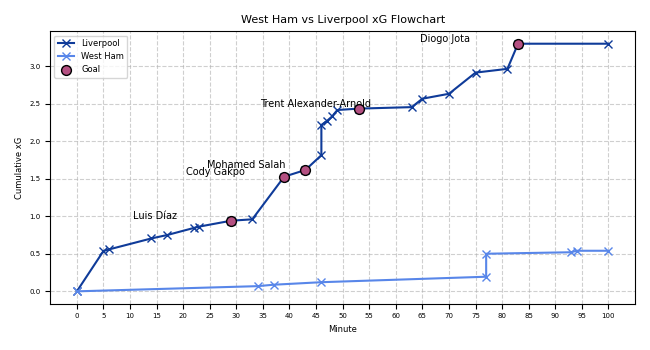
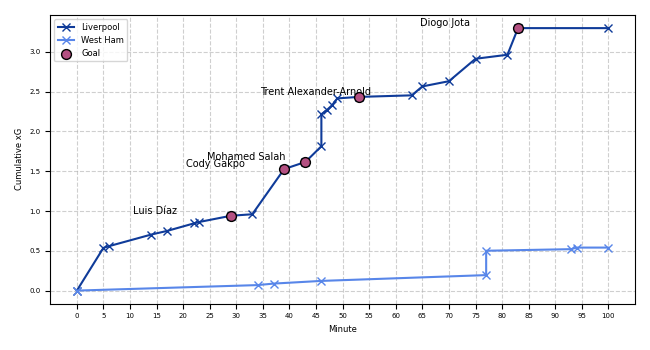
Created .env and .gitignore

diff --git a/montecarlo/post_game_viz_ai.py b/montecarlo/post_game_viz_ai.py
@@ -287,7 +287,7 @@ for _, row in goal_shots.iterrows():
     ax.text(row['minute'] - 18.5, row['cumulative_xG'], row['player'], fontsize=7, color='black', va='bottom', ha='left')
 
 # Adding titles and labels
-ax.set_title(f'{home_team} vs {away_team} xG Flowchart', fontsize=8)
+#ax.set_title(f'{home_team} vs {away_team} xG Flowchart', fontsize=8)
 ax.set_xlabel('Minute', fontsize=6)
 ax.set_ylabel('Cumulative xG', fontsize=6)
 ax.legend(fontsize=6)
@@ -435,7 +435,7 @@ from reportlab.lib.colors import HexColor
 # save the report dynamically according to name in montecarlo/reports/home_team_away_team.pdf
 
 # Prefixing the sizes of the canvas
-width, height = 700, 600
+width, height = 700, 700
 
 # Creating the canvas in the appropiate directory
 c = canvas.Canvas(f'montecarlo/Reports/{home_team} vs {away_team}.pdf', pagesize=(width, height))
@@ -445,15 +445,15 @@ c.setFillColorRGB(1, 1, 1)  # RGB values for white
 c.rect(0, 0, 780, 900, fill=True)  # Draw a filled rectangle with the white background
 
 # xG Flowchart- Sample of Images Import
-c.drawImage(f'montecarlo/Figures/xGFlowchart.png', 10, 30) #, width=270, height=220) - Avoid fixing sizes at it messes up image quality
+c.drawImage(f'montecarlo/Figures/xGFlowchart.png', 10, 130) #, width=270, height=220) - Avoid fixing sizes at it messes up image quality
 
 # Montecarlo Graphs
-c.drawImage(f'montecarlo/Figures/H2HMontecarlo.png', 35, 450)
-c.drawImage(f'montecarlo/Figures/OUMontecarlo.png', 450, 450)
+c.drawImage(f'montecarlo/Figures/H2HMontecarlo.png', 35, 550)
+c.drawImage(f'montecarlo/Figures/OUMontecarlo.png', 450, 550)
 
 # Adding Logos Programatically
-c.drawImage(f'montecarlo/Figures/home_team_logo.png', 500, 500, width = 90, height=90)
-c.drawImage(f'montecarlo/Figures/away_team_logo.png', 585, 500, width = 90, height=90)
+c.drawImage(f'montecarlo/Figures/home_team_logo.png', 500, 600, width = 90, height=90)
+c.drawImage(f'montecarlo/Figures/away_team_logo.png', 585, 600, width = 90, height=90)
 
 # Text
 URL4 = 'https://raw.githubusercontent.com/googlefonts/roboto/main/src/hinted/Roboto-Thin.ttf'
@@ -465,7 +465,7 @@ c.setFont('RobotoThin', 30)
 c.setFillColorRGB(1,1,1)  # Set text color to white
 c.setFillColor(primary_text) # change color dynamically to match home_team
 title = f"{home_team} vs {away_team}"
-c.drawString(50, 550, title)
+c.drawString(50, 650, title)
 
 ############ Subtitle - xG
 # Filtering to sum the xG Data per team
@@ -478,13 +478,13 @@ c.setFont('RobotoThin', 15)
 c.setFillColorRGB(1,1,1)  # Set text color to white
 c.setFillColor(primary_text) # change color dynamically to match home_team
 title = f"Expected Goals (xG)"
-c.drawString(285, 500, title)
+c.drawString(285, 600, title)
 
 c.setFont('RobotoThin', 30)
 c.setFillColorRGB(1,1,1)  # Set text color to white
 c.setFillColor(primary_text) # change color dynamically to match home_team
 title = f"{home_ov_data} - {away_ov_data}"
-c.drawString(280, 470, title)
+c.drawString(280, 570, title)
 
 
 
@@ -496,7 +496,7 @@ c.setFont('RobotoThin', 30)
 c.setFillColorRGB(1,1,1)  # Set text color to white
 c.setFillColor(primary_text) # change color dynamically to match home_team
 title = f"{home_score_data} - {away_score_data}"
-c.drawString(50, 520, title)
+c.drawString(50, 620, title)
 
 # xG Over/Underperformance
 h_xg_performance = home_score_data - home_ov_data
@@ -524,7 +524,7 @@ else:
 
 # Draw h_xg_performance with the arrow
 h_title = f"{round(h_xg_performance, 2)} {h_arrow}"
-c.drawString(280, 435, h_title)
+c.drawString(280, 535, h_title)
 
 # Determine and set the color for a_xg_performance and add the arrow
 if a_xg_performance >= 0:
@@ -537,7 +537,7 @@ else:
 # Draw a_xg_performance with the arrow
 a_title = f"{round(a_xg_performance, 2)} {a_arrow}"
 text_width = c.stringWidth(h_title, 'RobotoThin', 20)  # Calculate width of the first part
-c.drawString(360, 435, a_title)
+c.drawString(360, 535, a_title)
 
 ### Finalization of xG performance section
 
@@ -546,13 +546,13 @@ c.setFont('RobotoThin', 12)
 c.setFillColorRGB(1,1,1)  # Set text color to white
 c.setFillColor(primary_text) # change color dynamically to match home_team
 title = f"H2H Simulation"
-c.drawString(55, 435, title)
+c.drawString(55, 535, title)
 
 c.setFont('RobotoThin', 12)
 c.setFillColorRGB(1,1,1)  # Set text color to white
 c.setFillColor(primary_text) # change color dynamically to match home_team
 title = f"O/U Simulation"
-c.drawString(465, 435, title)
+c.drawString(465, 535, title)
 
 ############ Text - Probabilities for H2H
 c.setFont('RobotoThin', 10)
@@ -566,7 +566,7 @@ predictions = list(predictions_output.values())[:3]
 formatted_predictions = [f"{label} {value*100:.2f}%" for label, value in zip(labels, predictions)]
 
 # Set initial y-coordinate for text and step for line spacing
-x, y = 55, 420
+x, y = 55, 520
 line_spacing = 12  # Adjust line spacing as needed
 
 # Draw each formatted value on a new line
@@ -586,7 +586,7 @@ predictions = list(predictions_output.values())[3:]
 formatted_predictions = [f"{label} {value*100:.2f}%" for label, value in zip(labels, predictions)]
 
 # Set initial y-coordinate for text and step for line spacing
-x, y = 466, 420
+x, y = 466, 520
 line_spacing = 12  # Adjust line spacing as needed
 
 # Draw each formatted value on a new line
@@ -595,8 +595,23 @@ for prediction in formatted_predictions:
     y -= line_spacing  # Move down for the next line
 
 
+####### AI Generated Section
+# Let's create a designated area with a light background to visualize the space
+c.setFillColor(HexColor('#F5F5F5'))  # Light gray background
+c.rect(52, 35, 600, 85, fill=True)  # x, y, width, height
+
+# Optional: Add a header for the analysis section
+c.setFont('RobotoThin', 15)
+c.setFillColor(primary_text)
+c.drawString(50, 130, "Match Analysis")
+
+# You can add placeholder text to visualize how it will look
+c.setFont('RobotoThin', 10)
+c.setFillColor(primary_text)
+c.drawString(54, 100, "This space will contain AI-generated match analysis.")
+
 # Signature
-c.setFont('RobotoThin', 16)
+c.setFont('RobotoThin', 12)
 c.setFillColorRGB(1,1,1)  # Set text color to white
 c.setFillColor(primary_text) # change color dynamically to match home_team
 title = f"Enzo Villafuerte"
@@ -619,10 +634,10 @@ Further improvements:
 # Dynamic string: c.drawString(50 + text_width, 435, a_title)
 # Color palette from: https://brandguides.brandfolder.com/beautiful-dashboards/themes#starry-night
 # To run python montecarlo/post_game_viz.py 'url'
-# python montecarlo/post_game_viz.py 'https://understat.com/match/26733'
+# python montecarlo/post_game_viz_ai.py 'https://understat.com/match/26733'
 # python montecarlo/post_game_viz.py 'https://understat.com/match/27851'
 # python montecarlo/post_game_viz.py 'https://understat.com/match/26726'
 # python montecarlo/post_game_viz.py 'https://understat.com/match/27864'
 # python montecarlo/post_game_viz.py 'https://understat.com/match/26753'
 # python montecarlo/post_game_viz.py 'https://understat.com/match/27160'
-# python montecarlo/post_game_viz.py 'https://understat.com/match/26791'
+# python montecarlo/post_game_viz_ai.py 'https://understat.com/match/26791'

diff --git a/montecarlo/post_game_viz.py b/montecarlo/post_game_viz.py
@@ -605,6 +605,7 @@ c.drawString(300, 15, title)
 # Save and close the PDF file
 c.save()
 
+
 # Running section
 print(predictions_output)
 print('Success')
